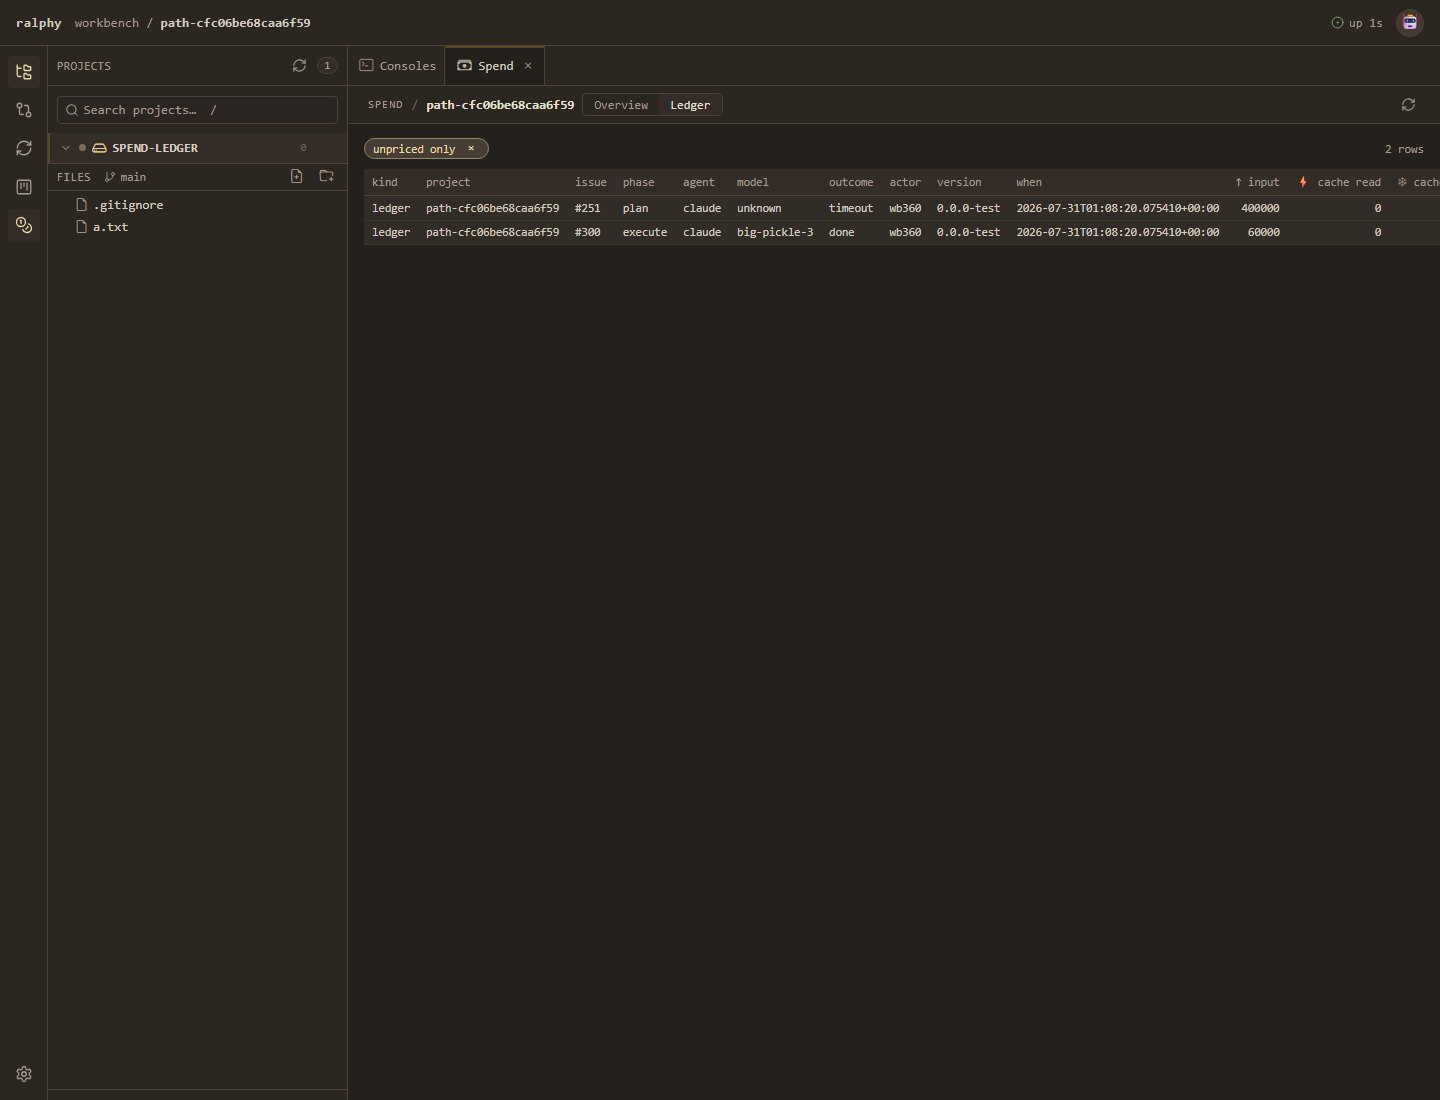
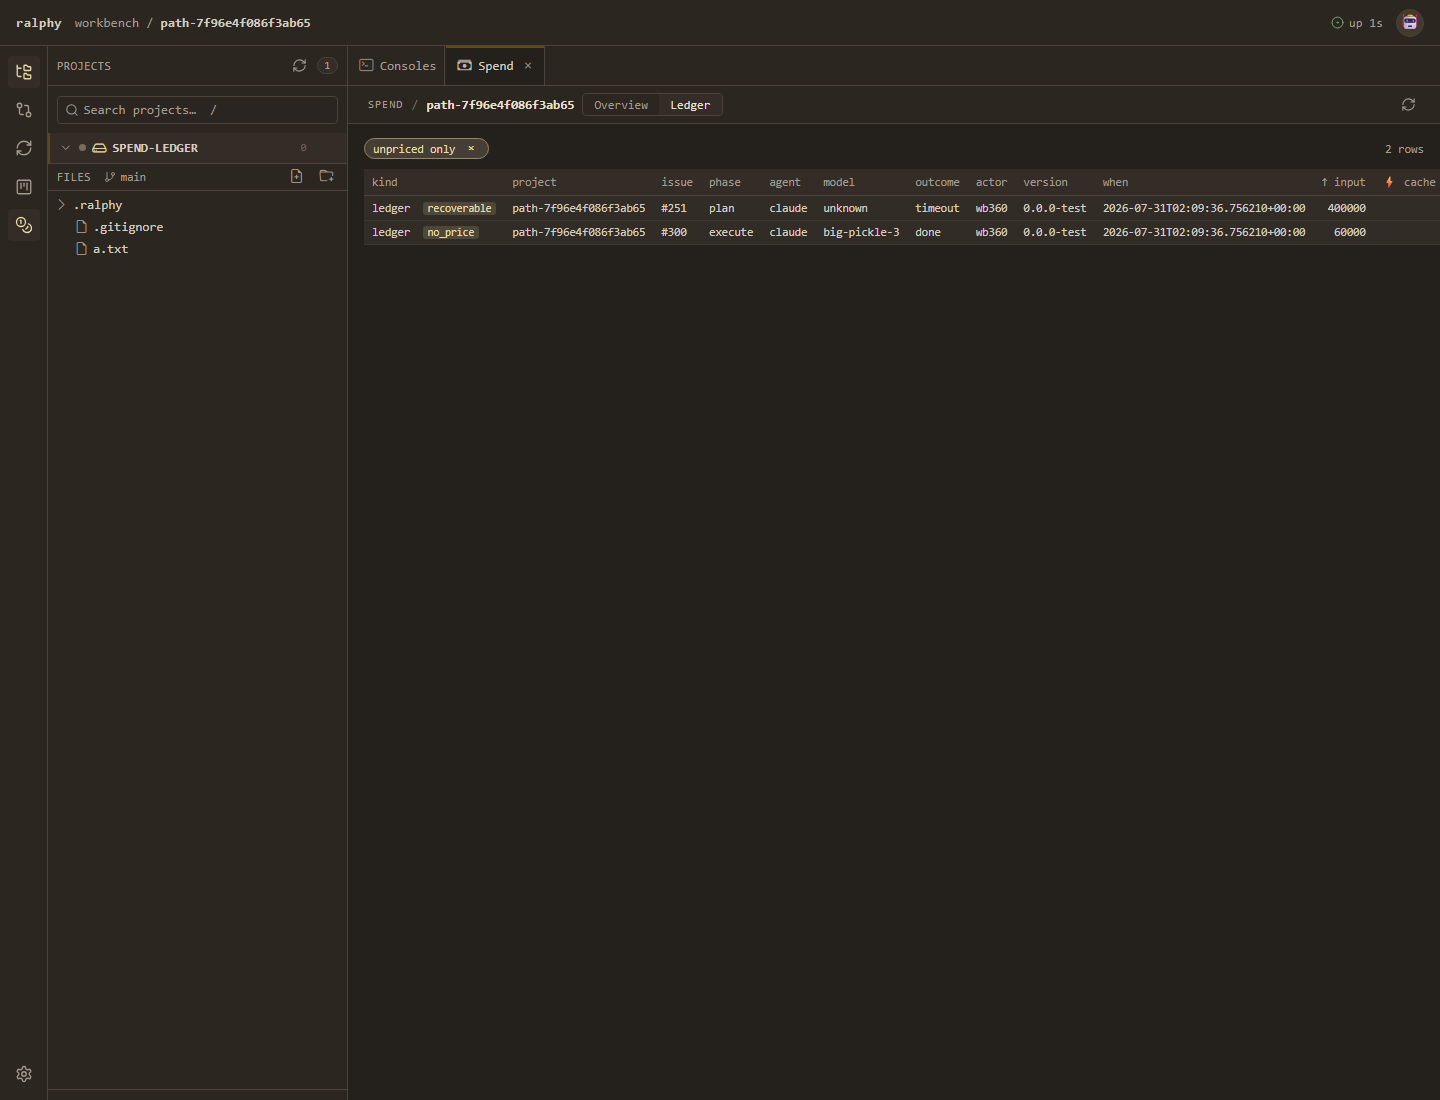
test(spend): the cause cell is measurable, and a null one FAILS instead of raising (#360)
An inline box reports clientWidth 0, so the new .ledger-cause assertion read null through the suite's visibility gate and the sort raised a TypeError — which kills a suite with zero [FAIL] lines.

diff --git a/crates/ralphy-daemon/assets/ui/styles.css b/crates/ralphy-daemon/assets/ui/styles.css
@@ -6055,6 +6055,9 @@ body.locked .runs {
    same and read differently, because which half of the gap a row is in is the
    whole reason the split exists. */
 .ledger-cause {
+  /* inline-block, not inline: an inline box reports `clientWidth: 0`, which is
+     the vacuous-geometry trap the browser suites gate every assertion on. */
+  display: inline-block;
   margin-left: 0.4rem;
   padding: 0 0.3rem;
   border-radius: 3px;

diff --git a/crates/ralphy-daemon/tests/wb_spend_360.py b/crates/ralphy-daemon/tests/wb_spend_360.py
@@ -451,7 +451,10 @@ def main():
             # The daemon's CAUSE WORD on screen, not merely a highlight class: a
             # row the operator cannot tell `recoverable` from `lost` on is a gap
             # with no owner, which is what this drill-down exists to give it.
-            causes = sorted(r["cause"] for r in drilled["rows"])
+            # Sorted as strings, with `None` mapped to a sentinel: a null cell is
+            # the failure this check exists to catch, and letting it raise a
+            # TypeError would kill the suite with ZERO `[FAIL]` lines.
+            causes = sorted(str(r["cause"]) for r in drilled["rows"])
             check(
                 "…each labelled with the daemon's own cause word",
                 causes == ["no_price", "recoverable"],
